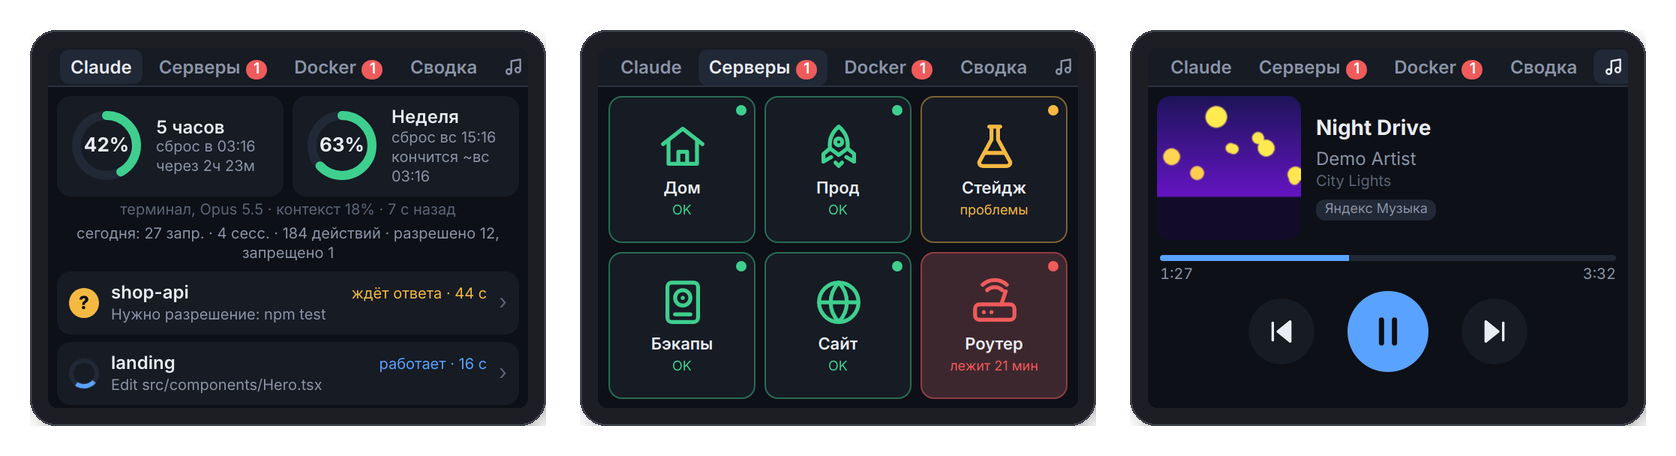
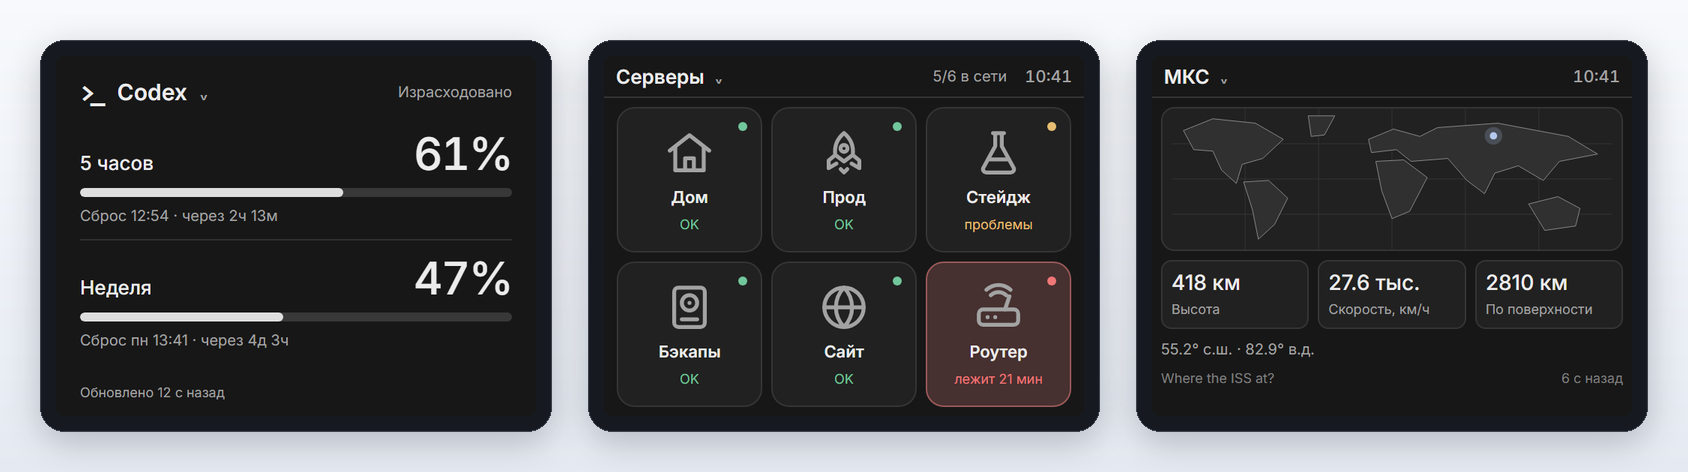
Docs: regenerate screenshots for 0.2.0

diff --git a/README.md b/README.md
@@ -12,7 +12,7 @@
 
 [English](README.en.md) · [Возможности](#возможности) · [Установка](#установка) · [Как устроено](#как-устроено) · [Развитие](#развитие)
 
-<img src="docs/images/hero.png" alt="Экраны CYD Hub: Claude, серверы, музыка" width="100%">
+<img src="docs/images/hero.png" alt="Экраны CYD Hub: лимиты Codex, серверы, МКС" width="100%">
 
 </div>
 
@@ -36,13 +36,13 @@
 <details open>
 <summary><b>Все экраны</b></summary>
 <br>
-<img src="docs/images/screens.png" alt="Все экраны CYD Hub" width="100%">
+<img src="docs/images/screens.png" alt="Все экраны CYD Hub: Codex, серверы, Docker, сводка, музыка, МКС, космическая погода" width="100%">
 </details>
 
 <details>
 <summary><b>Темы</b></summary>
 <br>
-<img src="docs/images/themes.png" alt="Темы: Claude Code, Pixel Art, Synthwave, Бумага, Матрица, Star Wars" width="100%">
+<img src="docs/images/themes.png" alt="Темы: Codex, Ночь, Claude Code, Pixel Art, Star Wars, Матрица, Synthwave, Бумага, Nord" width="100%">
 </details>
 
 <details>

diff --git a/README.en.md b/README.en.md
@@ -10,7 +10,7 @@
 
 [Русский](README.md)
 
-<img src="docs/images/hero.png" alt="CYD Hub screens" width="100%">
+<img src="docs/images/hero.png" alt="CYD Hub screens: Codex limits, servers and the ISS" width="100%">
 
 </div>
 
@@ -31,7 +31,7 @@ The board is only a screen and a touch panel. A server in Docker renders a 320×
 - **Themes**: 9 presets plus any colors, font and corner radius, all edited live in the browser.
 - **Extras**: alarms with sound and the RGB LED, brightness by schedule or light sensor, screensaver, 180° screen rotation, OTA firmware updates.
 
-<img src="docs/images/screens.png" alt="All screens" width="100%">
+<img src="docs/images/screens.png" alt="All CYD Hub screens" width="100%">
 
 ## Quick start
 
